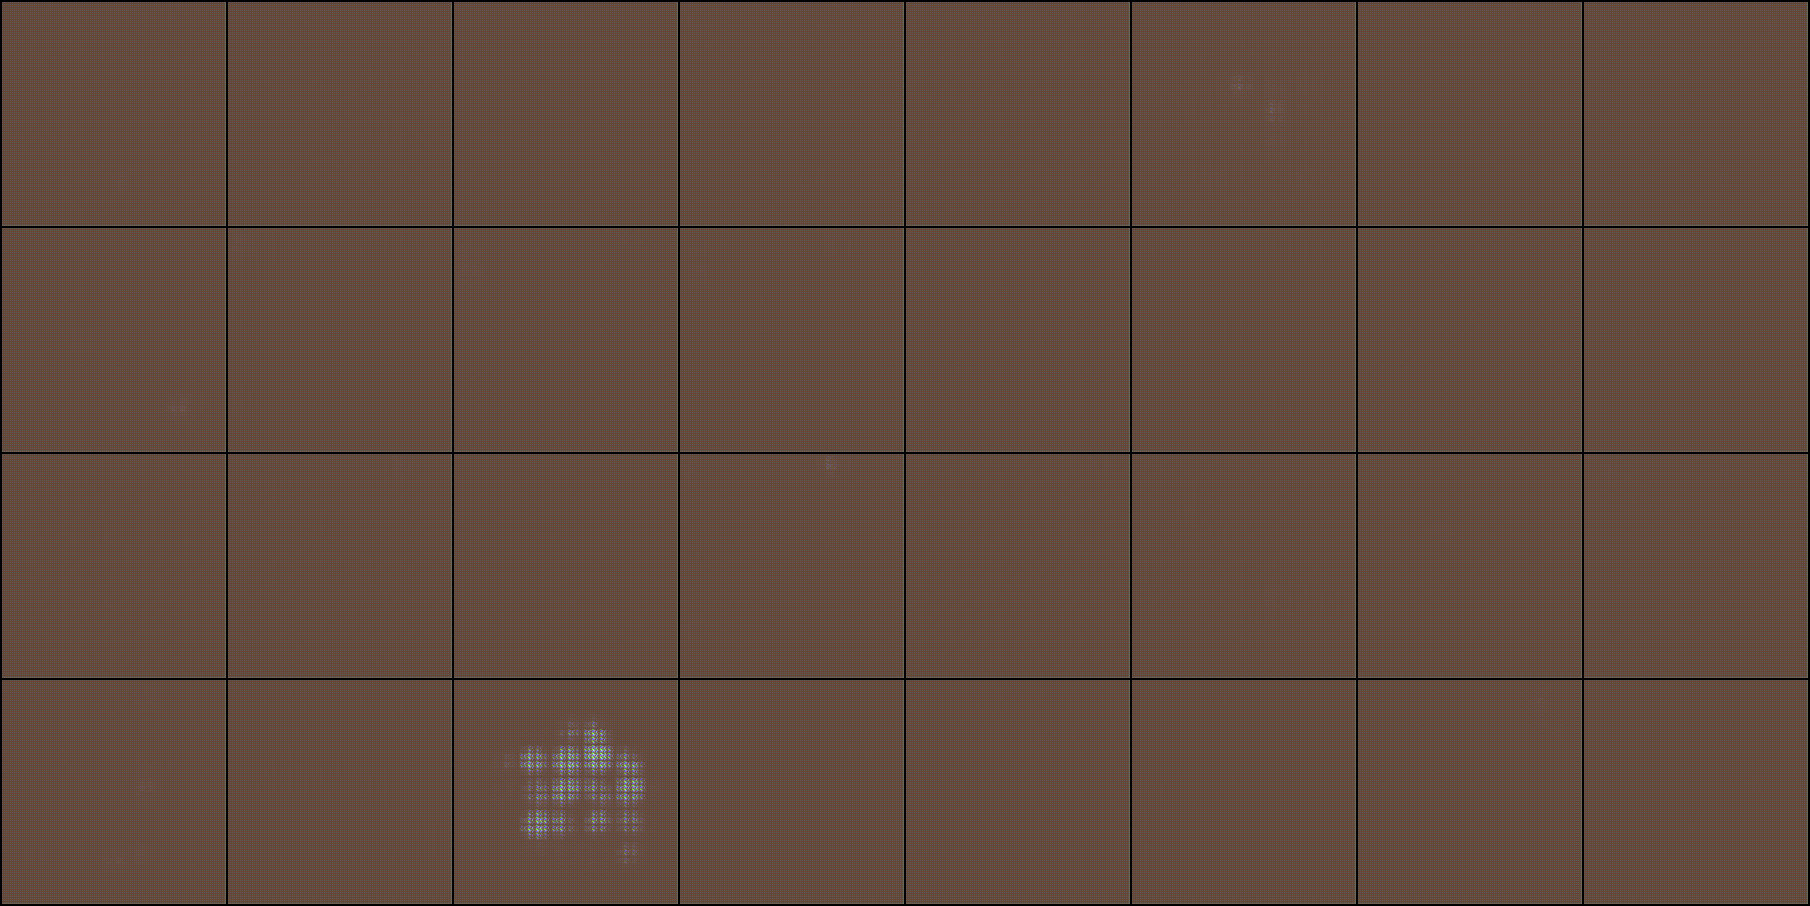
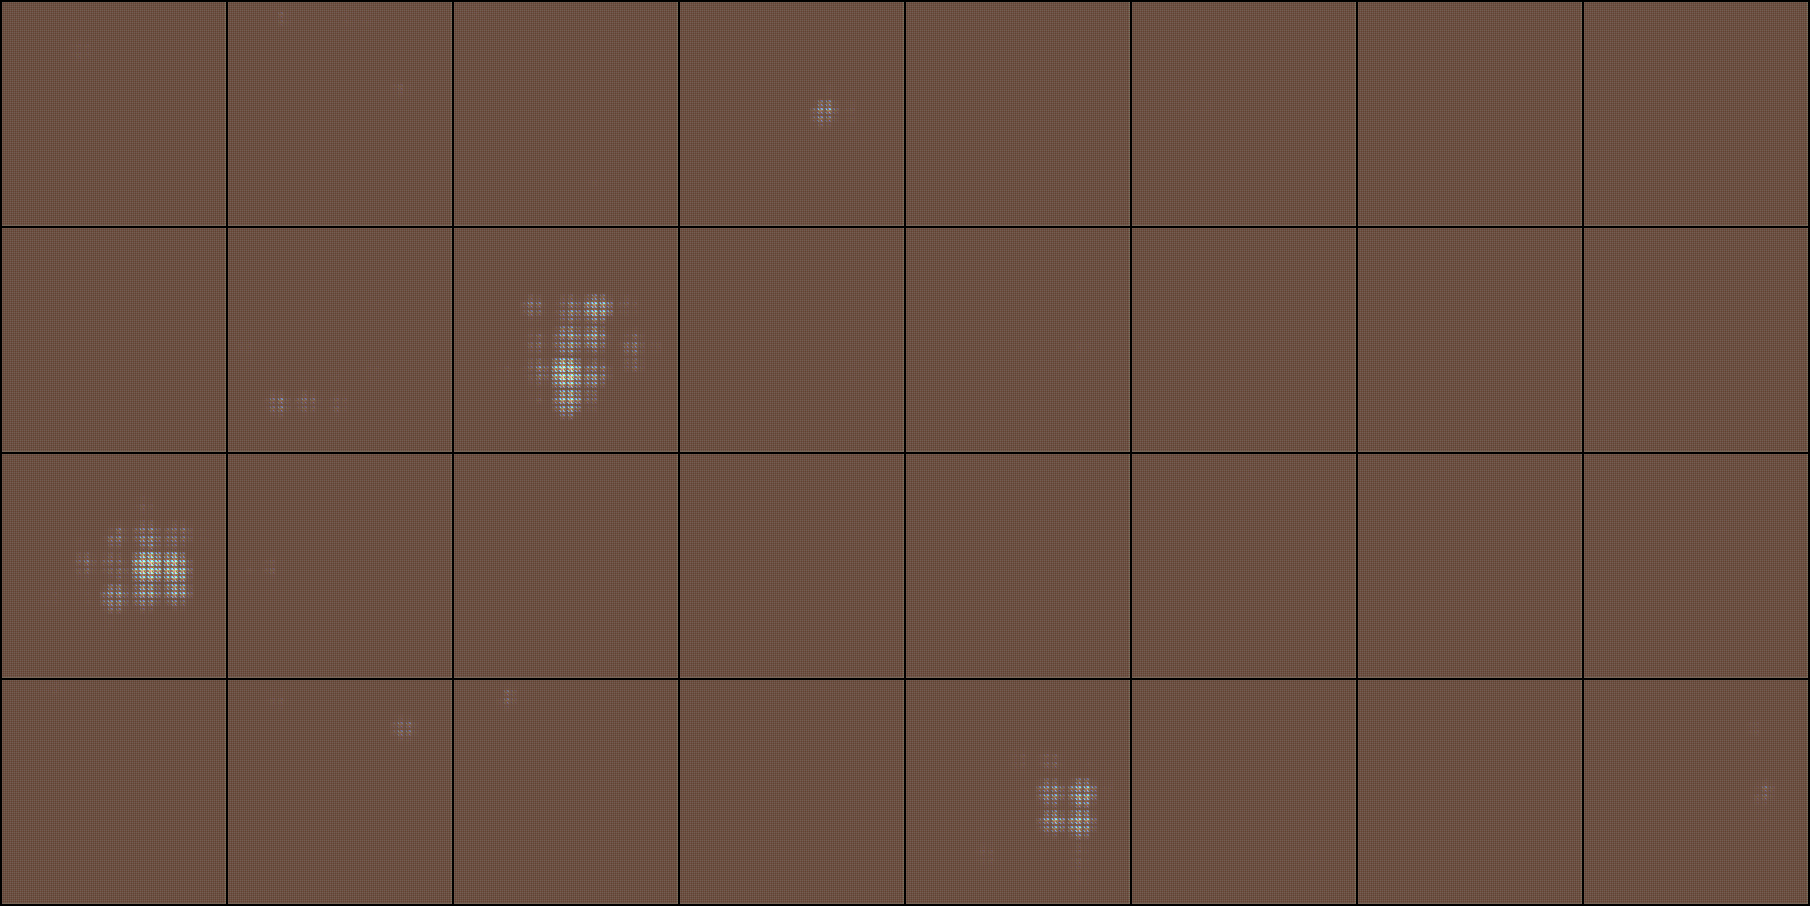
Finak

diff --git a/Model/inference.py b/Model/inference.py
@@ -564,7 +564,54 @@ def predictCNN(modelPath):
             print("Predicting image as Diseased")
         else:
             print("Predicting image as Healthy")
+
+def predictVAE(modelPath):
+
+     
+    if modelPath is not None:
+            loadDict=torch.load(modelPath,map_location=DEVICE)
+            detectionVAE=AnomalyVariationalAutoEncoder(INPUTCHANNELS,LATENTDIM,RDIM,LATENTSHAPE)
+            detectionVAE.load_state_dict(loadDict['modelStateDict'])
+            detectionVAE=detectionVAE.to(DEVICE)
+    else:
+        return
+    root=tk.Tk()
+    root.withdraw()
+    path=filedialog.askopenfilename(
+        title='Select a file',
+    )
+    tensorIM=loadImage(path)
+
+
+    #Need dataset to compute thresh
+    validationDatasetLoad=RetinalDiseaseLoader(VAETEST,False)
+    validSet=DataLoader(validationDatasetLoad,batch_size=BATCHSIZE,shuffle=False)
+    lossThresh=torch.nn.MSELoss(reduction="none")
+
+    thresh=retrievePercentiel(modelPath,detectionVAE,validSet,lossThresh,0.95)
+    tensorIM=tensorIM.to(DEVICE)
    
+    xReconed,mu,sigman=detectionVAE(tensorIM)
+   
+        #get the reconstruction loss for the  batch of images
+    reconLoss=lossThresh(xReconed,tensorIM)
+        #Reduce to be reconstruction loss for one image
+   
+        #beacause redeuce is none end up with loss for ever pixel in every chanell etc
+        #so flatten it all down to 1 massive tensor dim
+        #sum up on that dim  then we end up with the recon loss for eahc iamge in the batch
+    imageLoss=reconLoss.flatten(1).sum(dim=1)
+
+        #mark as anomaly
+        #0 disease 
+        #1 normal
+    if imageLoss>thresh:
+            print("Predicting image as Diseased")
+    else:
+            print("Predicting image as Healthy")
+
+
+    
 def generate(modelPath):
             
     if modelPath is not None:
@@ -614,7 +661,7 @@ def main():
             case "2":
                 trainCNN()
             case "3":
-                predict_vae()
+                predictVAE(VAEBEST)
             case "4":
                 predictCNN(CNNBEST)
             case "5":

diff --git a/Model/run.py b/Model/run.py
@@ -371,29 +371,16 @@ def sampling(epoch,numSave=5):
         x=x.to(DEVICE)
         z = torch.randn(BATCHSIZE, LATENTDIM)  # sample from gaus normal and see if we can get good looking recons
         z=z.to(DEVICE)
-        x_generated,mu,sigma = AnomalyVAE(x) 
+        xGenerated,mu,sigma = AnomalyVAE(x) 
  
 
-        output=x_generated.view(-1,3,224,224)
+        output=xGenerated.view(-1,3,224,224)
 
-        n=5
-        fig,axes=plt.subplots(2,n,figsize=(15,16))
+
 
         x=x.cpu()
         output=output.cpu()
             
-        for i in range(n):
-            axes[0, i].imshow(x[i].permute(1, 2, 0))      # original
-            axes[0, i].set_title("Original")
-            axes[0, i].axis('off')
-
-            axes[1, i].imshow(output[i].permute(1, 2, 0))  # reconstruction
-            axes[1, i].set_title("Reconstructed")
-            axes[1, i].axis('off')
-
-        plt.tight_layout()
-        plt.savefig("recon_check.png")
-        plt.clf()
         save_image(output,f"Generated{epoch}.png")
 
         randomSample=AnomalyVAE.decoder(z)
